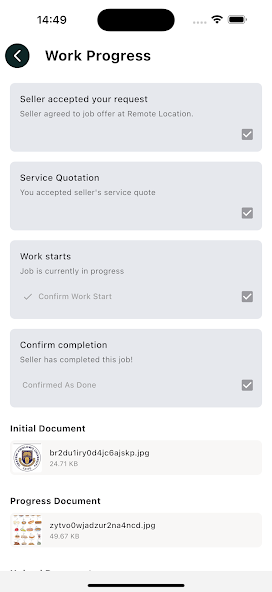
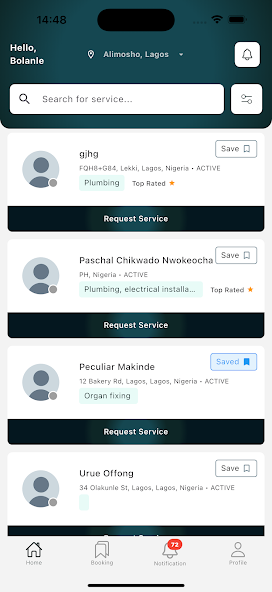
Show all eight One Universe screens
Claude-Session: https://claude.ai/code/session_01ChXZbyaTsfoQ9RDEVaYjwT

diff --git a/src/lib/projects.js b/src/lib/projects.js
@@ -21,6 +21,10 @@ export const projects = [
       "/images/projects/one-universe-2.png",
       "/images/projects/one-universe-3.png",
       "/images/projects/one-universe-4.png",
+      "/images/projects/one-universe-5.png",
+      "/images/projects/one-universe-6.png",
+      "/images/projects/one-universe-7.png",
+      "/images/projects/one-universe-8.png",
     ],
     galleryKind: "phone",
     summary:
